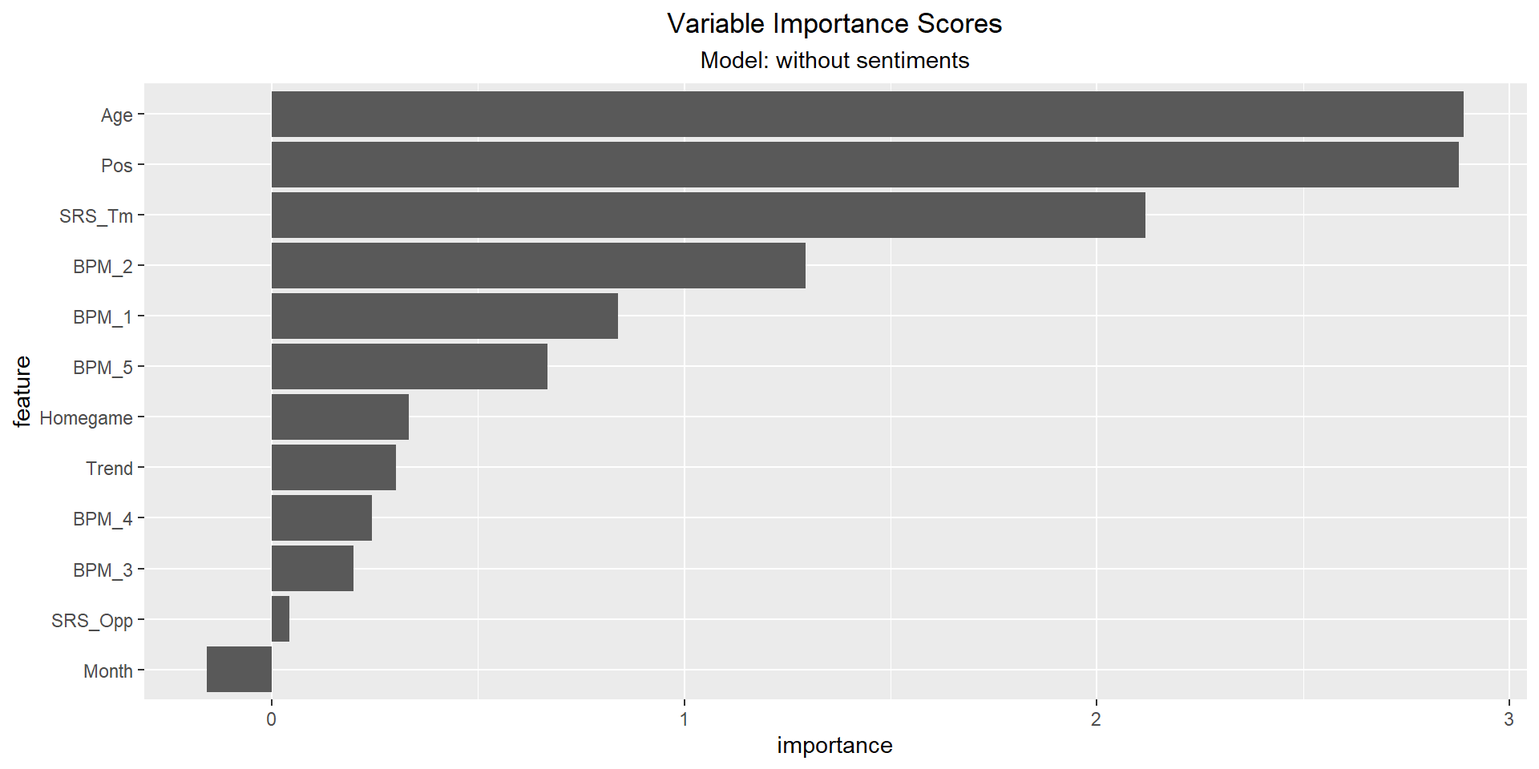
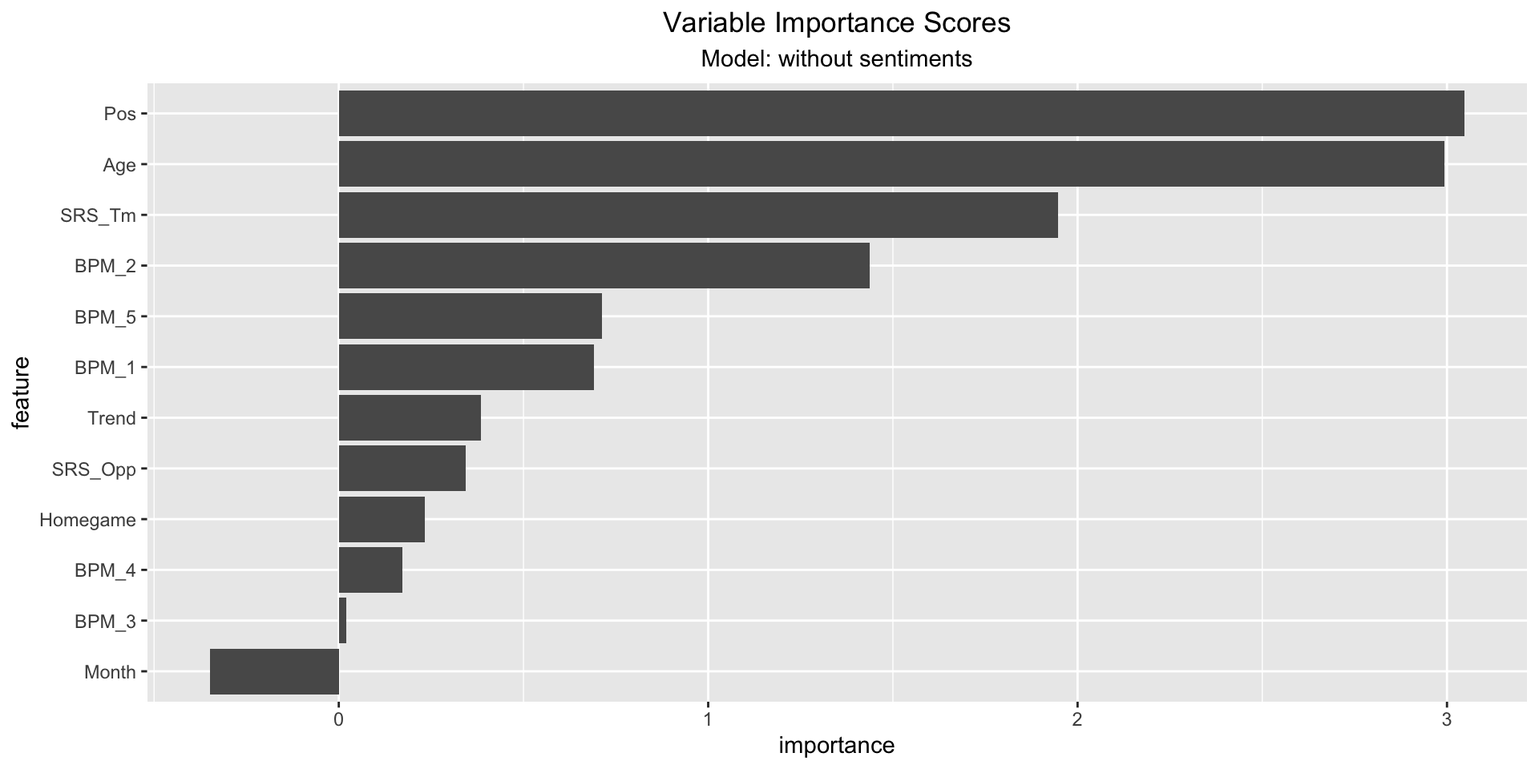
update website

diff --git a/website/content/Introduction/_index.html b/website/content/Introduction/_index.html
@@ -18,30 +18,24 @@ text-align: left}
 <h2>1. Introduction</h2>
 <div id="overview" class="section level3">
 <h3>1.1 Overview</h3>
-<p>The project aims to discover a significant impact of social media posts addressed to NBA players before matches with respect to their influence on these players’ game performance. For this purpose, we consider NBA players that are highly active on Twitter and extract tweets that are addressed to them within a short period of time before matches via the Twitter API. A sentiment analysis indicates the attitude of the posts and with the resulting sentiment polarity scores we test if there is a correlation between social media posts and players’ on-court performance. We also try to predict the players’ game performance using a random forest regression.</p>
+<p>The project aims to discover a significant impact of social media posts addressed to NBA players before matches with respect to their influence on these players’ game performance. For this purpose, we consider NBA players that are highly active on Twitter and extract tweets that are addressed to them within a short period of time before matches via the Twitter API. A sentiment analysis indicates the attitude of the posts and test if there is a correlation between social media posts and players’ on-court performance. We also try to predict the players’ game performance using a predictive model.</p>
 </div>
 <div id="background-and-motivation" class="section level3">
 <h3>1.1 Background and Motivation</h3>
-<p>With the growing presence of social media in all areas of life, allowing people from around the world to react to current events in real-time, an increasingly controversial discussion can be noticed. Today more than ever, public figures are exposed to the reactions of millions of people, observing and commenting on every step in their life that becomes public. The resulting negative impact that extensive social media usage can have on users’ behavior and mental state is subject to different scientific studies <span class="citation"><a href="#ref-kapoor_advances_2018" role="doc-biblioref">[1]</a>, <a href="#ref-berryman_social_2018" role="doc-biblioref">[2]</a></span>.</p>
-<p>Sports athletes, who use social media not only to communicate with peers and fans but also to promote themselves, are no exception to these issues <span class="citation"><a href="#ref-academy_does_2008" role="doc-biblioref">[3]</a></span>. Among researchers in the sports field, there is a consensus that the mental state of an athlete can have a significant impact on his or her performance <span class="citation"><a href="#ref-xu_measuring_2015" role="doc-biblioref">[4]</a></span>. However, only little research has been conducted in order to analyze if and how social media usage of athletes directly influences their performance.
-Xu and Yu <span class="citation"><a href="#ref-xu_measuring_2015" role="doc-biblioref">[4]</a></span> tried to capture the mood of basketball players in the NBA from the tweets they posted just before a match, using sentiment analysis, to analyze how the predicted mood influenced their performance on court. Gruettner, Vitisvorakarn and Wambsganss <span class="citation"><a href="#ref-gruttner_new_2020" role="doc-biblioref">[5]</a></span> used a similar approach on tennis players and additionally analyzed the relationship between the number of tweets they posted before matches and their performance within the match. 
-Ott and Puymbroeck <span class="citation"><a href="#ref-academy_does_2008" role="doc-biblioref">[3]</a></span> list cases where athletic performance appeared to be immediately influenced by the media and conclude that the media has the potential to change the performance of an athlete in a negative as well as positive way. 
+<p>With the growing presence of social media in all areas of life, allowing people from around the world to react to current events in real-time, an increasingly controversial discussion can be noticed. Today more than ever, public figures are exposed to the reactions of millions of people, observing and commenting on every step in their life that becomes public.</p>
+<p>Sports athletes, who use social media not only to communicate with peers and fans but also to promote themselves, are no exception to these issues <span class="citation"><a href="#ref-academy_does_2008" role="doc-biblioref">[1]</a></span>. Among researchers in the sports field, there is a consensus that the mental state of an athlete can have a significant impact on his or her performance <span class="citation"><a href="#ref-xu_measuring_2015" role="doc-biblioref">[2]</a></span>. However, only little research has been conducted in order to analyze if and how social media usage of athletes directly influences their performance.
+Xu and Yu <span class="citation"><a href="#ref-xu_measuring_2015" role="doc-biblioref">[2]</a></span> tried to capture the mood of basketball players in the NBA from the tweets they posted just before a match, using sentiment analysis, to analyze how the predicted mood influenced their performance on court. Gruettner, Vitisvorakarn and Wambsganss <span class="citation"><a href="#ref-gruttner_new_2020" role="doc-biblioref">[3]</a></span> used a similar approach on tennis players and additionally analyzed the relationship between the number of tweets they posted before matches and their performance within the match.
+Ott and Puymbroeck <span class="citation"><a href="#ref-academy_does_2008" role="doc-biblioref">[1]</a></span> list cases where athletic performance appeared to be immediately influenced by the media and conclude that the media has the potential to change the performance of an athlete in a negative as well as positive way.
 In this analysis we aim to assess this relationship more closely by analyzing how social media posts addressed to NBA players affect their game performance.</p>
 <div id="refs" class="references csl-bib-body">
-<div id="ref-kapoor_advances_2018" class="csl-entry">
-<div class="csl-left-margin">[1] </div><div class="csl-right-inline">K. K. Kapoor, K. Tamilmani, N. P. Rana, P. Patil, Y. K. Dwivedi, and S. Nerur, <span>“Advances in social media research: Past, present and future,”</span> <em>Inf Syst Front</em>, vol. 20, no. 3, pp. 531–558, Jun. 2018, doi: <a href="https://doi.org/10.1007/s10796-017-9810-y">10.1007/s10796-017-9810-y</a>.</div>
-</div>
-<div id="ref-berryman_social_2018" class="csl-entry">
-<div class="csl-left-margin">[2] </div><div class="csl-right-inline">C. Berryman, C. J. Ferguson, and C. Negy, <span>“Social media use and mental health among young adults,”</span> <em>Psychiatr Q</em>, vol. 89, no. 2, pp. 307–314, Jun. 2018, doi: <a href="https://doi.org/10.1007/s11126-017-9535-6">10.1007/s11126-017-9535-6</a>.</div>
-</div>
 <div id="ref-academy_does_2008" class="csl-entry">
-<div class="csl-left-margin">[3] </div><div class="csl-right-inline">U. S. S. Academy, <span>“Does the media impact athletic performance? The sport journal,”</span> Mar. 14, 2008. <a href="https://thesportjournal.org/article/does-the-media-impact-athletic-performance/">https://thesportjournal.org/article/does-the-media-impact-athletic-performance/</a> (accessed May 16, 2021).</div>
+<div class="csl-left-margin">[1] </div><div class="csl-right-inline">U. S. S. Academy, <span>“Does the media impact athletic performance? The sport journal,”</span> Mar. 14, 2008. <a href="https://thesportjournal.org/article/does-the-media-impact-athletic-performance/">https://thesportjournal.org/article/does-the-media-impact-athletic-performance/</a> (accessed May 16, 2021).</div>
 </div>
 <div id="ref-xu_measuring_2015" class="csl-entry">
-<div class="csl-left-margin">[4] </div><div class="csl-right-inline">C. Xu and Y. Yu, <span>“Measuring <span>NBA</span> players’ mood by mining athlete-generated content,”</span> in <em>2015 48th hawaii international conference on system sciences</em>, Jan. 2015, pp. 1706–1713, doi: <a href="https://doi.org/10.1109/HICSS.2015.205">10.1109/HICSS.2015.205</a>.</div>
+<div class="csl-left-margin">[2] </div><div class="csl-right-inline">C. Xu and Y. Yu, <span>“Measuring <span>NBA</span> players’ mood by mining athlete-generated content,”</span> in <em>2015 48th hawaii international conference on system sciences</em>, Jan. 2015, pp. 1706–1713, doi: <a href="https://doi.org/10.1109/HICSS.2015.205">10.1109/HICSS.2015.205</a>.</div>
 </div>
 <div id="ref-gruttner_new_2020" class="csl-entry">
-<div class="csl-left-margin">[5] </div><div class="csl-right-inline">A. Grüttner, M. Vitisvorakarn, T. Wambsganß, R. Rietsche, and A. Back, <span>“The new window to athletes’ soul - what social media tells us about athletes’ performances,”</span> Jan. 2020, doi: <a href="https://doi.org/10.24251/HICSS.2020.303">10.24251/HICSS.2020.303</a>.</div>
+<div class="csl-left-margin">[3] </div><div class="csl-right-inline">A. Grüttner, M. Vitisvorakarn, T. Wambsganß, R. Rietsche, and A. Back, <span>“The new window to athletes’ soul - what social media tells us about athletes’ performances,”</span> Jan. 2020, doi: <a href="https://doi.org/10.24251/HICSS.2020.303">10.24251/HICSS.2020.303</a>.</div>
 </div>
 </div>
 </div>

diff --git a/website/content/Exploratory Data Analysis/_index.html b/website/content/Exploratory Data Analysis/_index.html
@@ -15,8 +15,9 @@ text-align: left}
 <h2>4. Exploratory Data Analysis</h2>
 <div id="comparability-of-the-sentiment-lexicons" class="section level3">
 <h3>4.1 Comparability of the Sentiment Lexicons</h3>
-<p>In the beginning we wanted to assess if the different lexica sentiment scores for tweets were actually comparable. For that purpose we computed the Spearman rank correlation coefficient between tweet sentiment scores provided by each pair of sentiment lexica to assess whether the ranking of the tweets according to one sentiment lexicon agrees with the ranking of the tweets according to another sentiment lexicon.</p>
+<p>In the beginning we wanted to assess if the different lexica sentiment scores for tweets were actually comparable. For that purpose we computed the correlation between tweet sentiment scores provided by each pair of sentiment lexica to assess whether the ranking of the tweets according to one sentiment lexicon agrees with the ranking of the tweets according to another sentiment lexicon.</p>
 <p><img src="/Exploratory Data Analysis/_index_files/figure-html/sentiment_corr-1.png" width="960" /></p>
+<p>Generally we can see that except of the Emoji Sentiment Lexicon by Novak all other sentiment lexicons seem to correlate rather well. Apparently the computed tweet sentiments from the Emoji Lexicon differ strongly from the sentiments of the other lexica which is reasonable since the Emoji Lexicon is only computed on the emojis contained in the tweet while the other lexica use the textual information of the tweet. The Jockers Rinker and Syuzhet lexicons are most similar with a correlation coefficient around 0.95. This intuitively also makes sense since Jockers-Rinker is a combined version of Syuzhet and Bing as mentioned before.</p>
 </div>
 <div id="computing-sentiment-aggregates" class="section level3">
 <h3>4.2 Computing Sentiment Aggregates</h3>
@@ -29,8 +30,8 @@ text-align: left}
 </div>
 <div id="distribution-of-the-sentiment-aggregates-and-bpm" class="section level3">
 <h3>4.3 Distribution of the Sentiment Aggregates and BPM</h3>
-<p>Looking at the individual density curves we observed that the distributions of the average sentiment scores rougly fit the bell curve of a Normal distribution despite a few exceptions (esp. for the averaged sentiments for the emoji sentiment lexicon by Novak).
-We also studied how the BPM perfomance indicator values are distributed for the different players. Similar to the unweighted and weighted sentiment averages before, BPM was also normally distributed.</p>
+<p>Looking at the individual density curves we observed that the distributions of the average sentiment scores rougly fit the bell curve of a Normal distribution.
+Similar to the unweighted and weighted sentiment averages before, BPM was also normally distributed.</p>
 <p>Knowing that the BPM values were normally distributed for the different players, it was sufficient to simply construct boxplots for the performance indicator to get a sense how the individual players performed in general in the two considered seasons and how their performance fluctuated.</p>
 <p><img src="/Exploratory Data Analysis/_index_files/figure-html/plot-boxplot-BPM-1.png" width="960" /></p>
 </div>
@@ -40,7 +41,7 @@ We also studied how the BPM perfomance indicator values are distributed for the 
 <iframe src="https://jannikgreif.shinyapps.io/DataSciR_correlation/" width="100%" height="650">
 </iframe>
 <p>As one can see, the points of the different scatterplots appeared rather scattered. For the different sentiment
-lexicons and players there was neither a strong nor directly visible (linear) relationship between the average tweet
+lexica and players there was neither a strong nor directly visible (linear) relationship between the average tweet
 sentiment and the BPM performance indicator. Even though some of the linear regression lines suggested a correlation, the
 correlations themselves were rather weak or even neglectable as indicated by the respective Pearson correlation
 coefficients <em>r</em> that were relatively small (mostly less than 0.1). Additionally most of the <em>p</em>-values of the associated
@@ -49,17 +50,18 @@ significantly different from 0 (and might have appeared due to random chance).</
 <p>Nevertheless, there were also some counter examples where the Pearson correlation coefficient appeared rather
 significant. The player Jaylen Brown for example showed a positive correlation for the Afinn lexicon with a <em>p</em>-value
 below 0.05. However, since the correlations were rather weak, not significant and somehow contradicting for other
-sentiment lexicons (compare that the correlation was negative for the nrc lexicon), it is debatable if the positive
+sentiment lexica (compare that the correlation was negative for the nrc lexicon), it is debatable if the positive
 correlation is generalizable for the entire population or even the single player alone.</p>
 <p>Due to these reasons we had to conclude that there is no evidence of a significantly strong linear correlation between
-the average sentiment of tweets players receive within 24 hours before games and their performance within the games.</p>
+the average sentiment of tweets, players receive within 24 hours before games and their performance within the games.</p>
 <p>There was however another interesting observation the scatterplots revealed, namely the prominent outliers. For almost
 every player there was at least one game day in which the average tweet sentiment was vastly more positive compared to
 other days. Additionally there were some players with game days associated with an extremely negative average tweet
 sentiment in comparison to other days. To investigate these outliers more closely we created two word clouds for each
 player, one for the smallest average tweet sentiment the player received and one for the highest. We used the tweet
-sentiments created from the Jockers-Rinker lexicon for this purpose. On extremely positive sentiment values (outliers) the player had birthday.</p>
-<p>This RShiny App showcases the wordclouds for each player.
-<iframe src="https://jannikgreif.shinyapps.io/DataSciR_wordclouds/" width="100%" height="650"></iframe></p>
+sentiments created from the Jockers-Rinker lexicon for this purpose. On extremely positive sentiment values (outliers) the player had birthday. This RShiny App showcases the wordclouds for each player.</p>
+<iframe src="https://jannikgreif.shinyapps.io/DataSciR_wordclouds/" width="100%" height="650">
+</iframe>
+<p>The most prominent observation derived from the wordclouds was that the best average sentiments were frequently associated with the words “happy” and “birthday”, which indicated that these players were receiving birthday wishes on that same game day. Besides birthdays it appeared that other players received positive tweet sentiments due to another important day or event in their life. For Stephen Curry the terms “baby”, “congrats”, “boy”, “family”, “hands”, “blue” and “eyes” occurred rather frequently. People were congratulating him for another baby that was on the way.</p>
 </div>
 </div>

diff --git a/website/content/Datasets/_index.html b/website/content/Datasets/_index.html
@@ -15,23 +15,22 @@ text-align: left}
 <h2>2. Datasets</h2>
 <div id="nba-stats-datasets" class="section level3">
 <h3>2.1 NBA Stats Datasets</h3>
-<p>To get the needed data about players, games, seasons and all relevant meta-data, we extracted statistical data from <a href="https://www.basketball-reference.com">basketball-reference.com</a>, a site which provides historical basketball statistics of basketball players and teams from various US American and European leagues including the NBA.</p>
+<p>To get the needed data about players, games, seasons and all relevant meta-data, we extracted statistical data from <a href="https://www.basketball-reference.com">basketball-reference.com</a> - a website which provides historical basketball statistics of basketball players and teams from various US American and European leagues including the NBA.</p>
 <p>We use the following datasets:</p>
 <ul>
 <li><strong><em>Game data</em></strong> : GameId, Date, Gametime and the final score</li>
-<li><strong><em>Player data</em></strong> : PlayerId, Name of each player and the name of his twitter account name</li>
+<li><strong><em>Player data</em></strong> : PlayerId, Name of each player and the twitter account name</li>
 <li><strong><em>Player season stats</em></strong> : Player stats accumulated for each season</li>
-<li><strong><em>Player game stats</em></strong> : Performance data for each unique player/game combination - this datasets also includes the variable BPM we use as performance indicator</li>
+<li><strong><em>Player game stats</em></strong> : Performance data for each unique player/game combination</li>
 </ul>
-<p><a href="https://www.basketball-reference.com/about/bpm2.html">BPM</a> uses a players box score information, position, and the teams overall performance to estimate the players contribution in points above league average per 100 possessions played.</p>
-<p>We picked those players, which continuously played in the regular seasons 2016/17 - 2018/19. We didn’t consider the playoffs here, as many players didn’t get into the playoffs with their teams but still played a full regular season and therefore provide enough interesting play-data for our analysis. Furthermore, we only wanted those players in our dataset, who stayed at their respective team for the whole observation time. The idea behind this was to eliminate team switches as possible factors that influence the players performance. Additionally we wanted only those players who had on-court time in at least 80% of the games during regular season.
+<p>The player game stats dataset also includes the BPM metric we use as the main variable. Since the metric considers the overall performance of a player within a game (including offensive and defensive effort) we decided to use it as our main game performance indicator for the correlation analysis. <a href="https://www.basketball-reference.com/about/bpm2.html">BPM</a> uses a players box score information, position, and the teams overall performance to estimate the players contribution in points above league average per 100 possessions played.</p>
+<p>We picked those players, who continuously played in the regular seasons 2016/17 - 2018/19 (the last two seasons before Covid-19). We didn’t consider the playoffs here, as many players didn’t get into the playoffs with their teams but still played a full regular season and therefore provide enough interesting play-data for our analysis. Furthermore, we only wanted those players in our dataset, who stayed at their respective team for the whole observation time. The idea behind this was to eliminate team switches as possible factors that influence the players performance. Additionally we wanted only those players who had on-court time in at least 80% of the games during regular season.
 On this dataset we applied a cutoff value to get only those players, whose performance is relatively unstable in comparison to their colleagues (standard deviation for BPM was higher or equal to 8).
 The last parameter we wanted to include into our selection is a minimum Twitter follower count of 1.000 to ensure social media activity.</p>
 </div>
 <div id="twitter-dataset" class="section level3">
 <h3>2.2 Twitter Dataset</h3>
 <p>With the given data we were able to extract the tweets using the Twitter API. To only extract tweets that can be assumed to be relevant for a specific game day, we delimited the time range of tweets to be considered for the extraction to the time between 24 hours and 45 minutes before a game (to be on the safe side, we first extracted tweets in a range of 48 hours before a game and boiled it down to 24 hours in an extra step). With the first limit we wanted to avoid that tweets, related to another match get considered. The 45 minute delimiter was set according to the assumption, that it is unlikely for players to check their twitter just 45 minutes before a game.
-After these parameters were set, we obtained the tweets for each player of our preselection-list discussed before. Alongside with the raw text, the date of creation, the count how often a post was retweeted, the reply count, the like count for each tweet and the quote count were added to the dataset of each players tweets. A very important step for our later analysis was to map each tweet to the respective PlayerId and the GameId, to be able to address tweets based on a player- or a game-selection.
-The tweets were then processed further to extract the text and emojis to run a sentiment analysis.</p>
+Alongside with the raw text, the date of creation, the retweet count, the reply count, the like count and the quote count were added to the dataset. The tweets were then processed further to extract the text and emojis to run a sentiment analysis.</p>
 </div>
 </div>

diff --git a/website/content/Conclusion/_index.html b/website/content/Conclusion/_index.html
@@ -16,14 +16,15 @@ text-align: left}
 <div id="wrapping-it-up" class="section level3">
 <h3>9.1 Wrapping It Up</h3>
 <p>To the end of our project it is time to dedicate a section to the final results and findings of the whole work. It turned out that the most time consuming tasks were not only to run the exploratory analysis on our data but also to gather and preprocess the data itself. Especially the processing of the twitter data has held some unexpected challenges, namely the proper handling of emojis and the overall handling of the Twitter API, which turned out to be more complex than expected. Nonetheless we were able to generate meaningful data, that contains all variables needed to run some interesting analysis on it. Especially Twitter offered a wide range of metadata that got delivered with each tweet (e.g. the retweet count, which was vital for one of our correlation approaches).</p>
-<p>With the exploratory data analysis we wanted to answer our initial research questions. For this purpose we ran different approaches over the data to check, whether there is a significant correlation between the average sentiment of tweets a player receives before a game and his performance in-game. Unfortunately, it is to say, that our hypothesis doesn’t hold and there is no such significance to be observed. Therefore the conclusion of our analysis at this point is that the Null-hypothesis holds true.</p>
+<p>With the exploratory data analysis we wanted to answer our initial research questions. For this purpose we ran different approaches over the data to check, whether there is a significant correlation between the average sentiment of tweets a player receives before a game and his performance in-game. Unfortunately, it is to say, that our hypothesis doesn’t hold and there is no such significance to be observed.</p>
 <p>To further investigate the findings we made, we wanted to elaborate the impact of the sentiments on a prediction model that predicts the players BPM performance score. The idea: If the sentiments highly contribute to the prediction and this prediction then is relatively good, it could be interpreted as indicator, that the significant correlation exists after all and we just made some mistakes in the analysis setup. And indeed did the majority of the sentiment scores highly contribute to the prediction. But unfortunately the prediction was quite poor. This could be interpreted as the sentiments pushing the predictor into a wrong learning direction and therefore are not significantly correlated to the prediction outcome.</p>
 </div>
 <div id="further-considerations" class="section level3">
 <h3>9.2. Further Considerations</h3>
-<p>Reflecting the overall project and its outcome some consideration regarding the whole project setup can be done:. For the twitter data, domain specific and more advanced sentiment extraction methods could be found or existing analyzers be tuned
-2. For the prediction model, the input variables should be reviewed to gain a better prediction outcome
-3. Generally the correlation analysis could be decoupled from the BPM performance variable and be applied to component variables of the BMP score (e.g. a correlation between the sentiments and the 3-point-field-goal percentage)
-4. Further assumptions could be incorporated into the process, like the fact that some players don’t manage their own twitter accounts at all but let professional social-media agencies monitor the activities. Such accounts are of course irrelevant for our analysis</p>
+<p>Reflecting the overall project and its outcome some consideration regarding the whole project setup can be done:</p>
+<p>1.For the twitter data, domain specific and more advanced sentiment extraction methods could be found or existing analyzers be tuned</p>
+<p>2.For the prediction model, the input variables should be reviewed to gain a better prediction outcome</p>
+<p>3.Generally the correlation analysis could be decoupled from the BPM performance variable and be applied to component variables of the BMP score (e.g. a correlation between the sentiments and the 3-point-field-goal percentage)</p>
+<p>4.Further assumptions could be incorporated into the process, like the fact that some players don’t manage their own twitter accounts at all but let professional social-media agencies monitor the activities. Such accounts are of course irrelevant for our analysis</p>
 </div>
 </div>

diff --git a/website/content/Predictive Model/_index.html b/website/content/Predictive Model/_index.html
@@ -48,8 +48,8 @@ saved as well.</p>
 performance best, a visualization is shown below that
 displays the predicted values (y-axis) and the true values
 (x-axis) for each model, meaning a perfectly fitted model
-would align all points on the the 45° line. The
-visualization doesn’t allow for a clear interpretation since
+would align all points on the dashed line. The
+visualization doesn’t allow a clear interpretation since
 all models are scattered and no specific trend can be
 observed.</p>
 <p><img src="/Predictive Model/_index_files/figure-html/modelvisualisation_predictions-1.png" width="960" /></p>
@@ -63,18 +63,18 @@ predicted values and the actual values) and RSQ (R-Squared: proportion of varian
 the dependent variable that can be explained by the
 independent variables) was used to further analyze the
 different models.
-The bar plot shows that the RMSE are in the range of 7.7 - 8.15. Using RMSE as a metric the model without sentiment scores predicts
+The bar plot shows that the RMSE are in the range of 7.71 - 8.15. Using RMSE as a metric the model without sentiment scores predicts
 the BPM best. The difference between the models RSQ on the
-other hand is quite large. Here, all models don’t explain the
-BPM well ranging from 0.0186973 to 0.1007016.
+other hand is quite large. All models don’t explain the
+BPM well ranging from 0.017 to 0.1012.
 So even here, a direct influence of the sentiments as a
 feature can not be derived from the model, underlining our
 findings in the correlation analysis that the sentiments have no significant influence on a players in-game performance.</p>
 </div>
 <div id="variable-importance-scores" class="section level3">
 <h3>5.4 Variable Importance Scores</h3>
-<p><img src="/Predictive Model/_index_files/figure-html/modelvisualisation_variableimportance-1.png" width="960" /><img src="/Predictive Model/_index_files/figure-html/modelvisualisation_variableimportance-2.png" width="960" /><img src="/Predictive Model/_index_files/figure-html/modelvisualisation_variableimportance-3.png" width="960" /></p>
 <p>As last step we looked at the importance scores of each model - mostly focusing on the model including the sentiments. It can be observed that the afinn, syuzhet and jockers_rinker sentiment scores score high importance scores. The (permutation) importance score is calculated by (1) measuring a basline RSQ , (2) permuting the values of one feature and measure the RSQ. The importance score is the difference between the basline and the drop in overall RSQ caused by the permutation.
 The plot indicates a high influence of sentiment scores, but since the model has a low RSQ, this should be perceived carefully.</p>
+<p><img src="/Predictive Model/_index_files/figure-html/modelvisualisation_variableimportance-1.png" width="960" /><img src="/Predictive Model/_index_files/figure-html/modelvisualisation_variableimportance-2.png" width="960" /><img src="/Predictive Model/_index_files/figure-html/modelvisualisation_variableimportance-3.png" width="960" /></p>
 </div>
 </div>

diff --git a/website/content/Sentiments/_index.html b/website/content/Sentiments/_index.html
@@ -23,9 +23,11 @@ The following sentiment lexica were used to compute the sentiments for each twee
 <li><strong><em>AFINN</em></strong> : word list with sentiments reaching on a discrete scale from -5 to 5</li>
 <li><strong><em>Novak</em></strong> : list of emojis with sentiment scores reaching from -1 to 1</li>
 </ul>
-<p>Each lexicon is applied to the preprocessed text of each tweet to calculate the sentiment scores. Finally all sentiments of a time window of 24 hours - 45 minutes before a game got aggregated to one representative sentiment score which then is used for the correlation analysis. To capture different facets of expressiveness, we generated three different aggregates:
-- The average sentiment each player received each game over all sentiments within the respective time range
-- The average sentiment each player received each game over all sentiments within the respective time range, weighted with the retweet count of each tweet
-- The proportion of tweets with a negative sentiment each player received each game over all sentiments within the respective time range</p>
+<p>Each lexicon is applied to the preprocessed text of each tweet to calculate the sentiment scores. Finally all sentiments of a time window of 24 hours to 45 minutes before a game got aggregated to one representative sentiment score which then is used for the correlation analysis. To capture different facets of expressiveness, we generated three different aggregates:</p>
+<ul>
+<li>The average sentiment each player received each game over all sentiments within the respective time range</li>
+<li>The average sentiment each player received each game over all sentiments within the respective time range, weighted with the retweet count of each tweet</li>
+<li>The proportion of tweets with a negative sentiment each player received each game over all sentiments within the respective time range</li>
+</ul>
 <p>The results of the sentiment analysis are displayed in the Sentiment Analysis subpage.</p>
 </div>

diff --git a/website/layouts/partials/logo.html b/website/layouts/partials/logo.html
@@ -1,5 +1,5 @@
 <a id="logo" href='{{ (cond (and (ne .Site.Params.landingPageURL nil) (.Site.IsMultiLingual)) .Site.Params.landingPageURL "/") }}'>
 
-<img src="https://brain.cs.uni-magdeburg.de/kmd/DataSciR/figures/datascir_w300.png" alt="Logo" height="100px">
+<img src="https://raw.githubusercontent.com/jannikgreif/DataSciR_2021/main/datascir_w300.png" alt="Logo" height="160px">
 
 </a>
